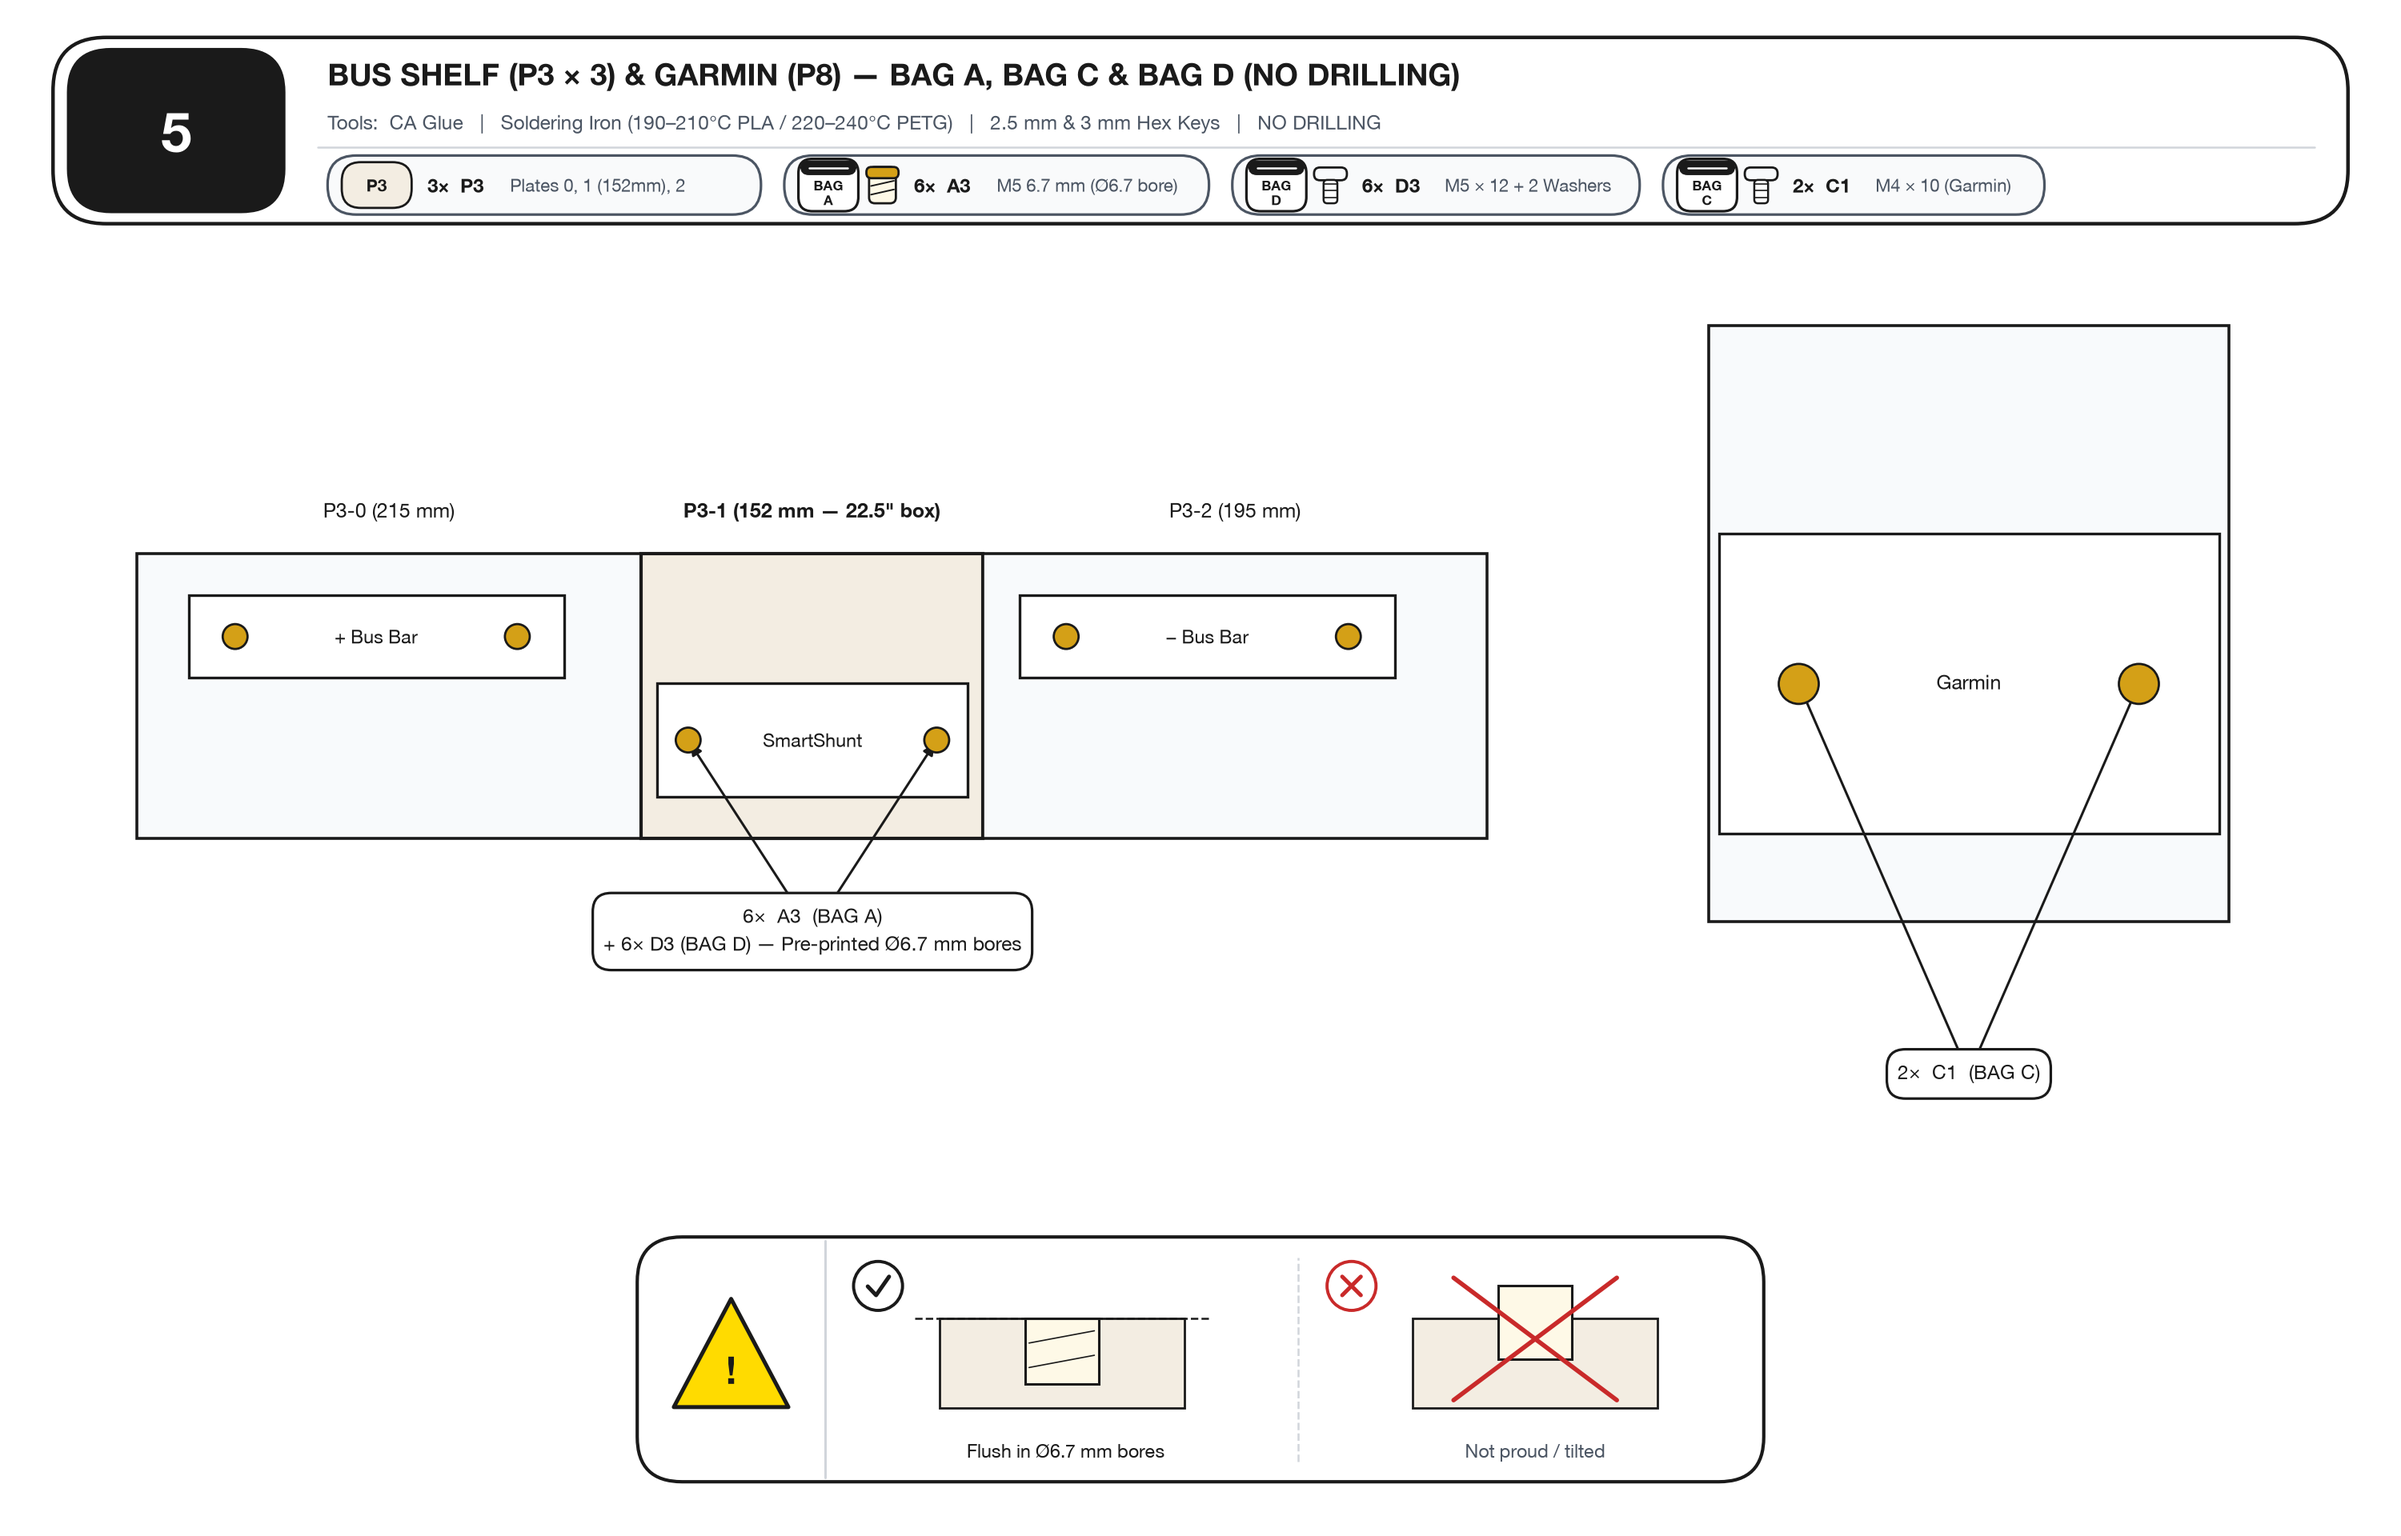
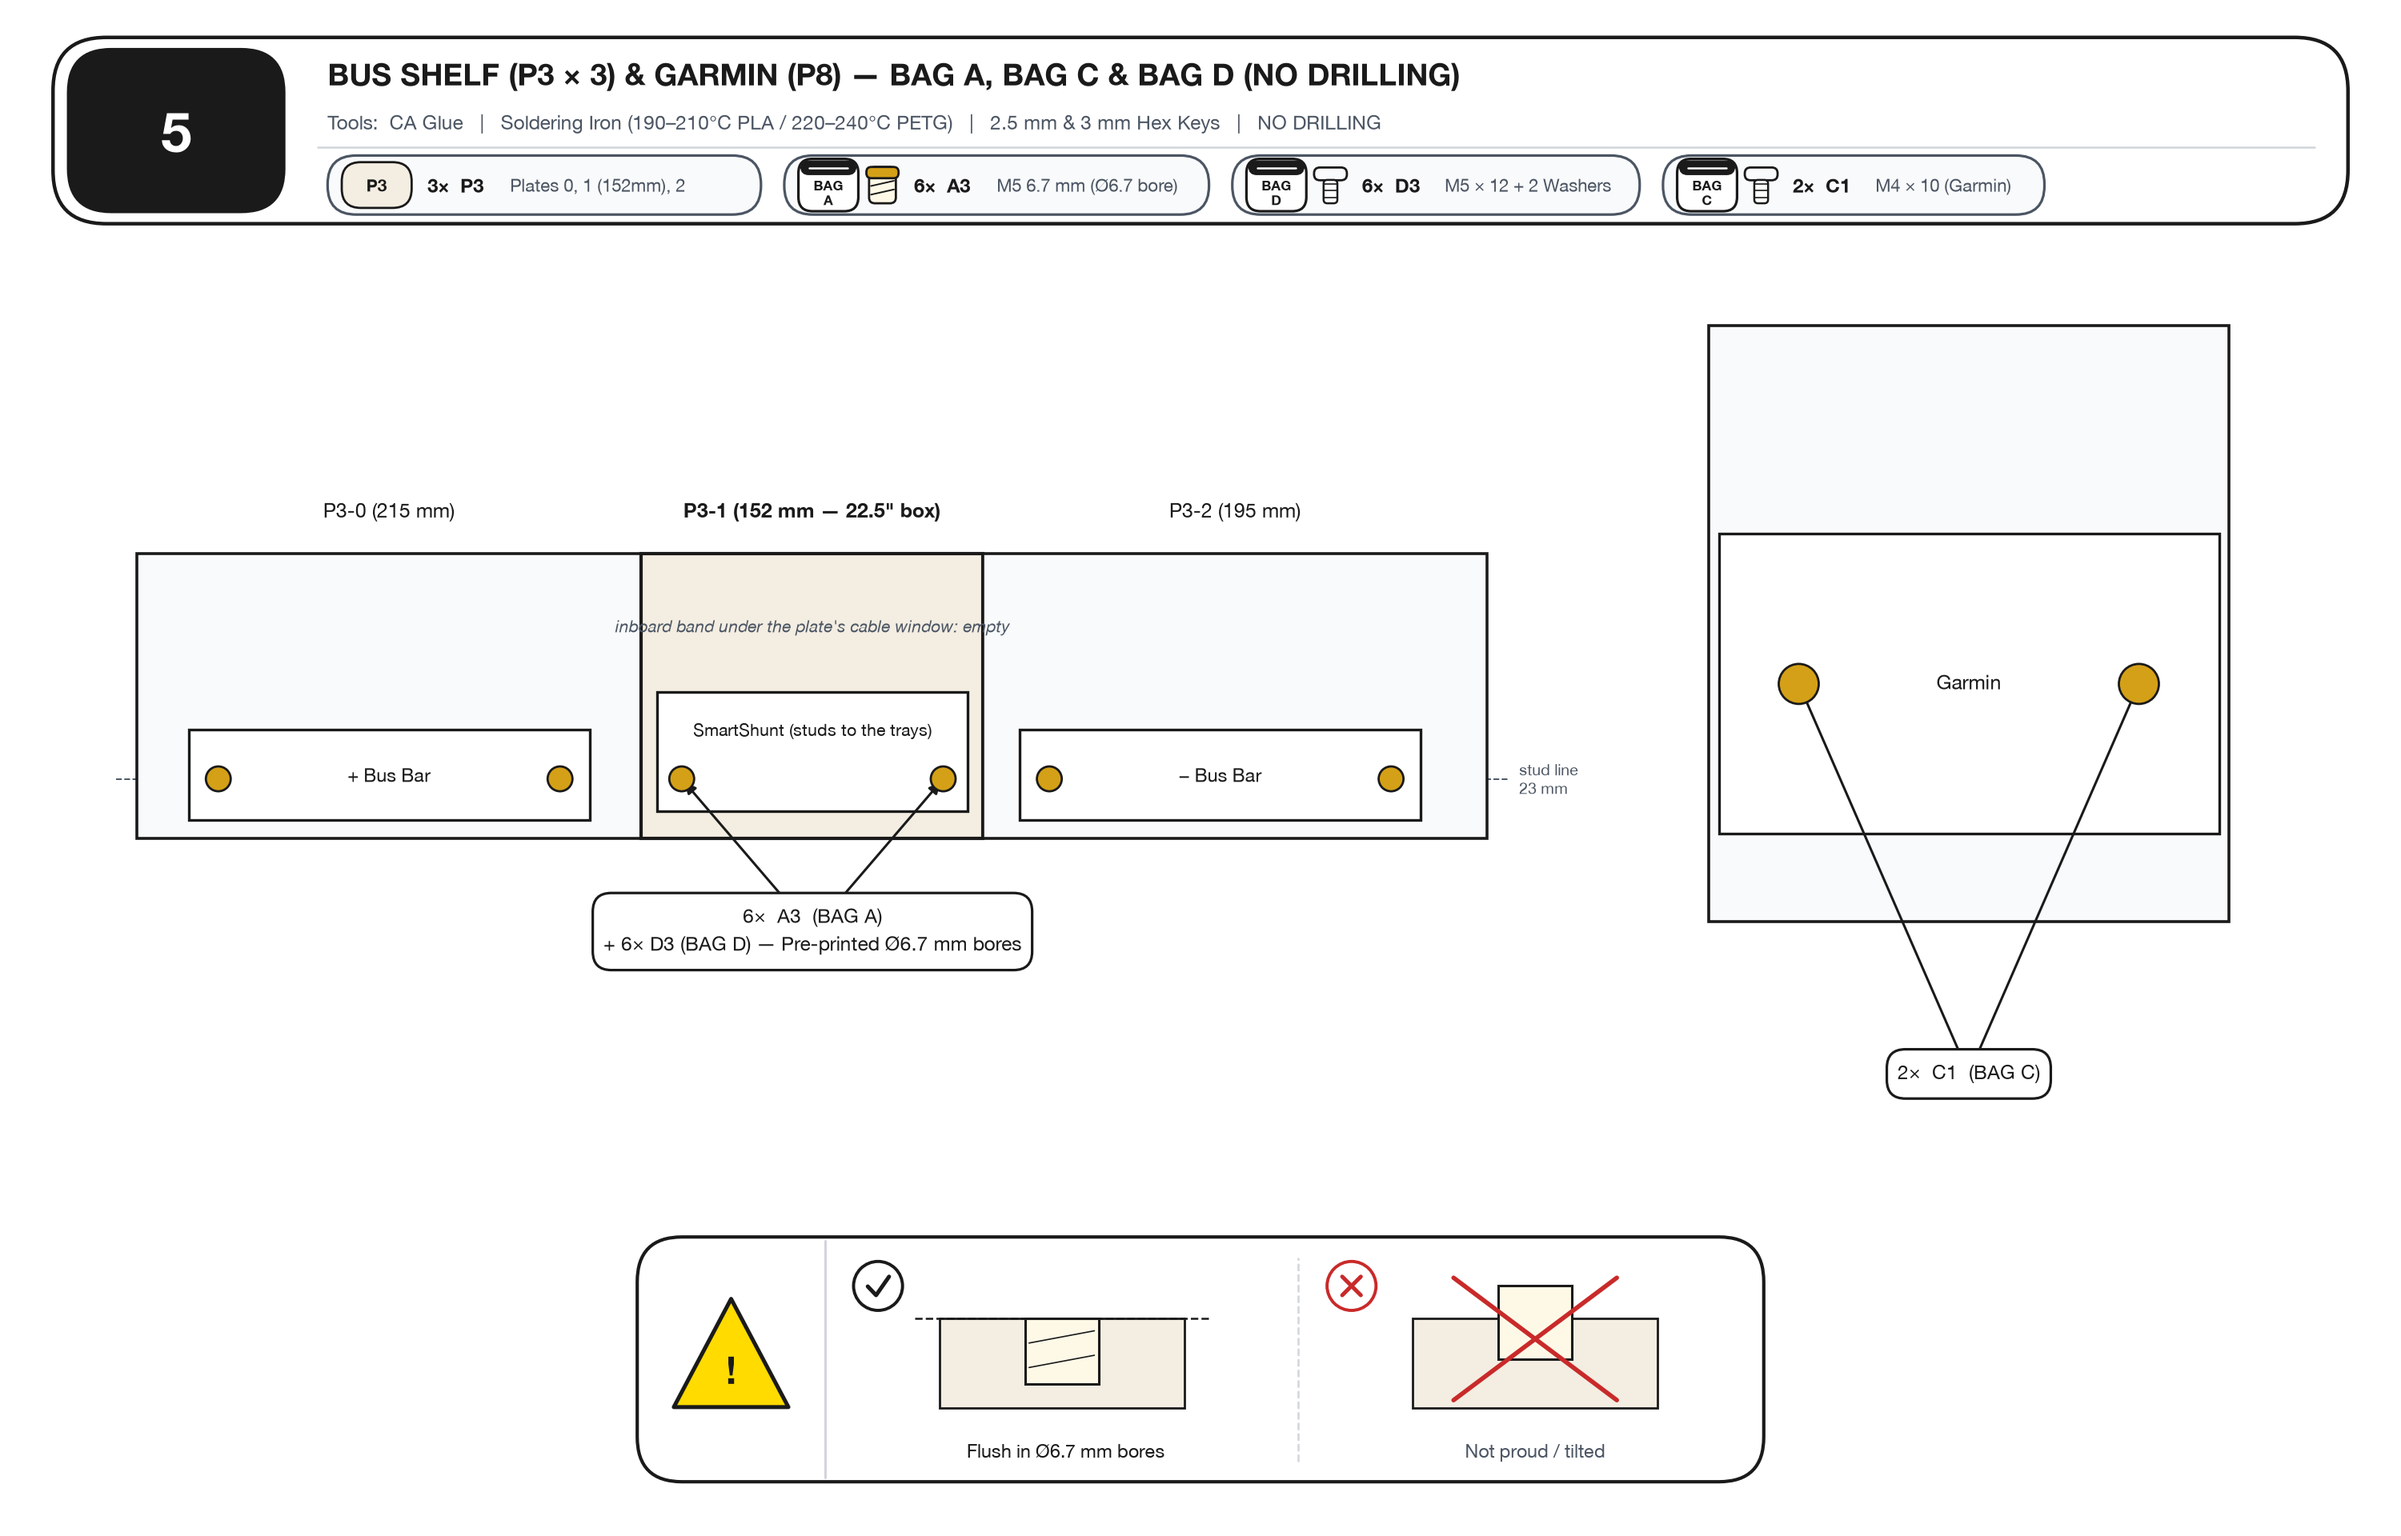
IKEA page 5: shunt in line with the bus bars
The bus shelf bench page still drew the pre-2026-11-01 layout (shunt
on the tray side, bars in the inboard row). Now all three sit on the
one stud line 23 mm from the tray edge, with the bars 1 mm off the lip
and the shunt 4.5 mm off it, and the inboard band marked empty.

diff --git a/battery-box/cad/ikea_manual.py b/battery-box/cad/ikea_manual.py
@@ -789,16 +789,21 @@ def page_05_bus_subassembly():
     ax1.text((b0 + b1) / 2, 124, "P3-1 (152 mm — 22.5\" box)", ha="center", fontsize=9.0, weight="bold", color=INK)
     ax1.text((b1 + b2) / 2, 124, "P3-2 (195 mm)", ha="center", fontsize=9.0, weight="normal", color=INK)
 
-    ax1.add_patch(Rectangle((201, 16), 120, 44, fc="white", ec=INK, lw=1.2))
-    ax1.text(261, 38, "SmartShunt", ha="center", va="center", fontsize=8.4, weight="normal", color=INK)
-    sh_pts = [(213, 38), (309, 38)]
+    # 2026-11-01 layout: all three on the TRAY side (y 0 = the lip's outer face) on one stud line 23 mm in; the bars 1 mm off the
+    # lip (ears 16 in), the shunt's stud edge 4.5 off it (slots 12.5 in, on its stud line).  The inboard band stays empty.
+    ax1.add_patch(Rectangle((201, 10.5), 120, 46, fc="white", ec=INK, lw=1.2))
+    ax1.text(261, 42, "SmartShunt (studs to the trays)", ha="center", va="center", fontsize=7.6, weight="normal", color=INK)
+    sh_pts = [(210.5, 23), (311.5, 23)]
     for sx, sy in sh_pts:
         ax1.add_patch(Circle((sx, sy), 4.8, fc=BRASS, ec=INK, lw=1.0, zorder=4))
     for bx, lbl in ((20, "+ Bus Bar"), (341, "− Bus Bar")):
-        ax1.add_patch(Rectangle((bx, 62), 145, 32, fc="white", ec=INK, lw=1.2))
-        ax1.text(bx + 72.5, 78, lbl, ha="center", va="center", fontsize=8.4, weight="normal", color=INK)
-        for hx in (bx + 18, bx + 127):
-            ax1.add_patch(Circle((hx, 78), 4.8, fc=BRASS, ec=INK, lw=1.0, zorder=4))
+        ax1.add_patch(Rectangle((bx, 7), 155, 35, fc="white", ec=INK, lw=1.2))
+        ax1.text(bx + 77.5, 24.5, lbl, ha="center", va="center", fontsize=8.4, weight="normal", color=INK)
+        for hx in (bx + 11.5, bx + 143.5):
+            ax1.add_patch(Circle((hx, 23), 4.8, fc=BRASS, ec=INK, lw=1.0, zorder=4))
+    ax1.plot([-8, 530], [23, 23], color=INK_SUB, lw=0.7, ls="--", zorder=0.5)   # behind the part outlines
+    ax1.text(534, 23, "stud line\n23 mm", ha="left", va="center", fontsize=7.0, color=INK_SUB)
+    ax1.text(261, 82, "inboard band under the plate's cable window: empty", ha="center", va="center", fontsize=7.4, color=INK_SUB, style="italic")
     bag_callout(ax1, sh_pts, (261, -36), "BAG A", "A3", "6", sub="+ 6× D3 (BAG D) — Pre-printed Ø6.7 mm bores")
     ax1.set_xlim(-25, 550); ax1.set_ylim(-65, 155)
 
